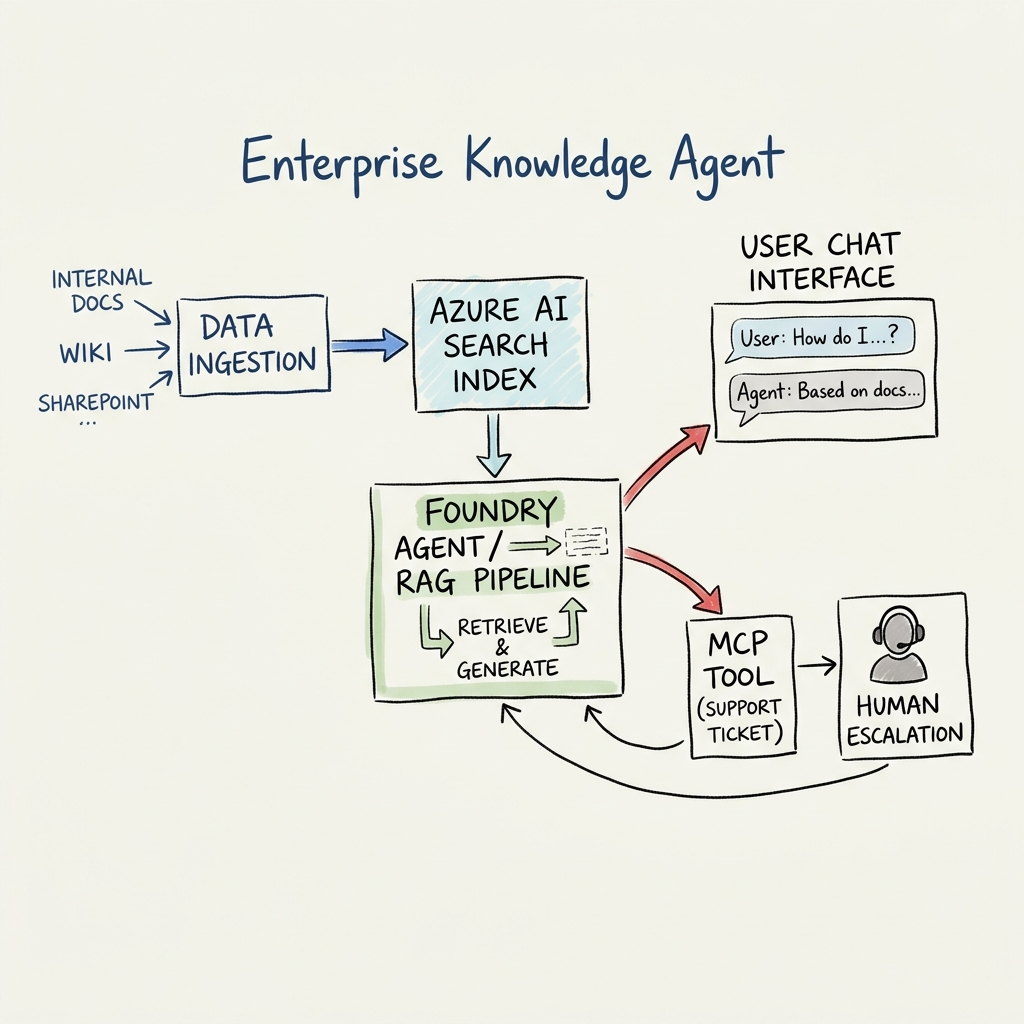
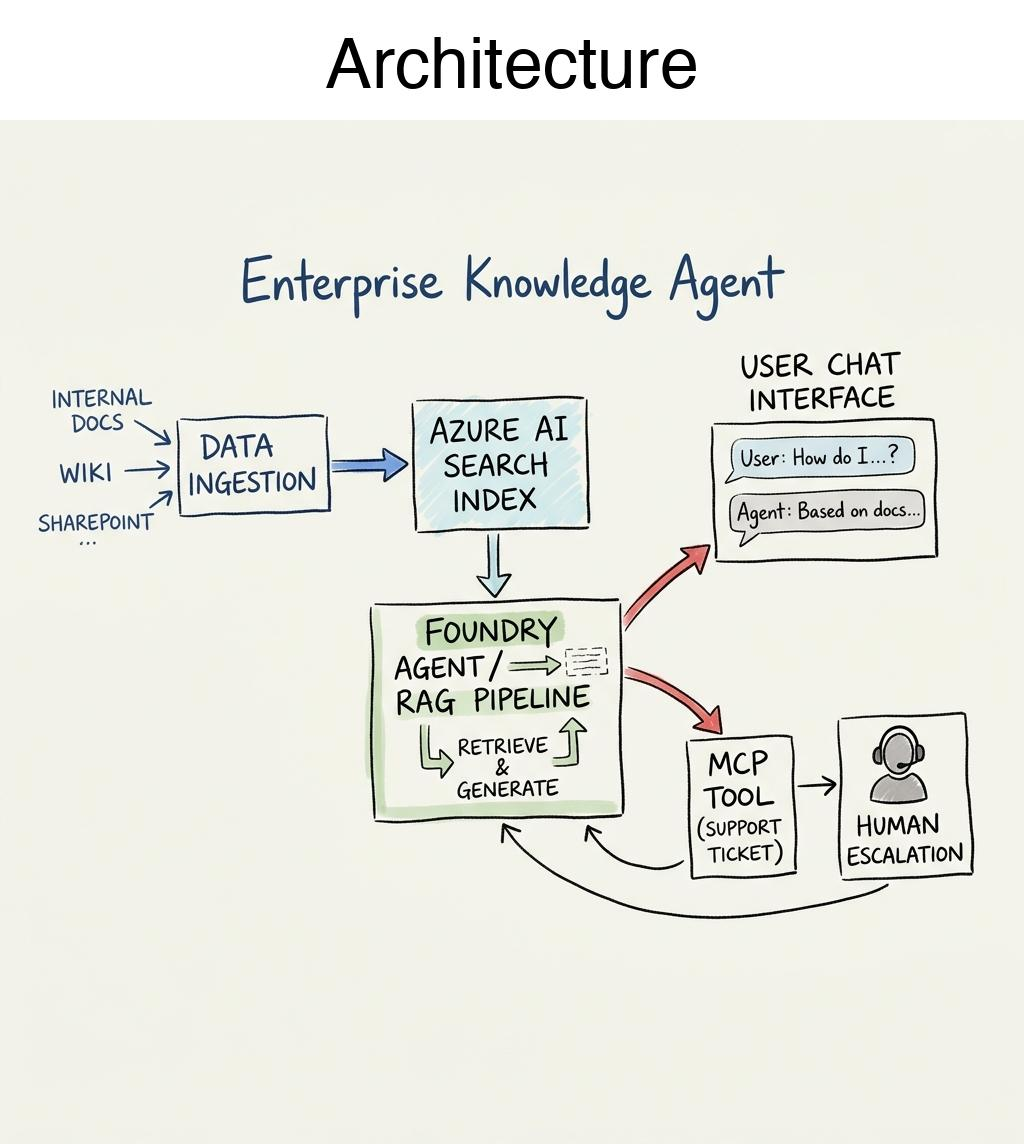
feat: Replace separate images with an interactive slider/carousel

diff --git a/smartbase.html b/smartbase.html
@@ -37,23 +37,44 @@
 
     </section>
 
-    <!-- OVERVIEW / PROBLEM STATEMENT -->
+    <!-- OVERVIEW & ARCHITECTURE CAROUSEL -->
     <section id="overview" class="container section-padding" style="padding-top: 0; margin-top: 2.5rem;">
-      <div class="cp-img-wrapper animate-up" style="border-radius: 16px; margin: 0 auto; width: 80%; max-width: 950px; background: #fdfdfd; padding: 2rem; border: 1px solid rgba(0,0,0,0.05);">
-        <img src="assets/smartbase/problem_sketch.jpg" alt="The problem is not a lack of information. It is a lack of findability and actionability." style="width: 100%; border-radius: 8px;" />
-      </div>
-    </section>
+      <div class="carousel-container cp-img-wrapper animate-up" style="border-radius: 16px; margin: 0 auto; width: 80%; max-width: 950px; background: #fdfdfd; padding: 2rem; border: 1px solid rgba(0,0,0,0.05); position: relative; overflow: hidden;">
+        
+        <div class="carousel-track" id="carouselTrack" style="display: flex; transition: transform 0.5s ease-in-out; width: 100%;">
+          
+          <!-- Slide 1: Problem Sketch -->
+          <div class="carousel-slide" style="min-width: 100%; box-sizing: border-box; display: flex; align-items: center; justify-content: center;">
+            <img src="assets/smartbase/problem_sketch.jpg" alt="Problem Statement" style="width: 100%; border-radius: 8px;" />
+          </div>
 
-    <!-- ARCHITECTURE DIAGRAM -->
-    <section id="architecture" class="container section-padding">
-      <div style="text-align: center; max-width: 800px; margin: 0 auto; margin-bottom: 3rem;">
-        <h2 class="section-heading" style="font-size: clamp(2.375rem, 5.8vw, 3.875rem); margin-bottom: 0.5rem;">Architecture</h2>
-        <p class="subtitle" style="font-size: clamp(1.05rem, 1.9vw, 1.4375rem);">End-to-End RAG Pipeline & MCP Tool Integration</p>
-      </div>
+          <!-- Slide 2: Architecture Sketch -->
+          <div class="carousel-slide" style="min-width: 100%; box-sizing: border-box; display: flex; align-items: center; justify-content: center;">
+            <img src="assets/smartbase/architecture.jpg" alt="Architecture Diagram" style="width: 100%; border-radius: 8px;" />
+          </div>
 
-      <div class="cp-img-wrapper animate-up" style="border-radius: 16px; margin: 0 auto; width: 80%; max-width: 950px; background: #fdfdfd; padding: 2rem; border: 1px solid rgba(0,0,0,0.05);">
-        <img src="assets/smartbase/architecture.jpg" alt="Hand-drawn Architecture Diagram" style="width: 100%; border-radius: 8px;" />
+        </div>
+
+        <!-- Controls -->
+        <button onclick="moveSlide(-1)" style="position: absolute; top: 50%; left: 1rem; transform: translateY(-50%); background: rgba(255,255,255,0.8); color: #333; border: 1px solid #ddd; padding: 0; border-radius: 50%; cursor: pointer; box-shadow: 0 4px 10px rgba(0,0,0,0.1); width: 40px; height: 40px; display: flex; align-items: center; justify-content: center; font-size: 1.2rem; font-weight: bold; z-index: 10;">&#10094;</button>
+        <button onclick="moveSlide(1)" style="position: absolute; top: 50%; right: 1rem; transform: translateY(-50%); background: rgba(255,255,255,0.8); color: #333; border: 1px solid #ddd; padding: 0; border-radius: 50%; cursor: pointer; box-shadow: 0 4px 10px rgba(0,0,0,0.1); width: 40px; height: 40px; display: flex; align-items: center; justify-content: center; font-size: 1.2rem; font-weight: bold; z-index: 10;">&#10095;</button>
+
       </div>
+      
+      <script>
+        let currentSlide = 0;
+        function moveSlide(direction) {
+          const track = document.getElementById('carouselTrack');
+          const slides = document.querySelectorAll('.carousel-slide');
+          currentSlide = (currentSlide + direction + slides.length) % slides.length;
+          track.style.transform = `translateX(-${currentSlide * 100}%)`;
+        }
+        
+        // Auto-slide to Architecture diagram after 2 minutes (120000 ms) as requested
+        setTimeout(() => {
+            if(currentSlide === 0) moveSlide(1);
+        }, 120000);
+      </script>
     </section>
 
     <!-- OWNERSHIP & IMPACT -->
